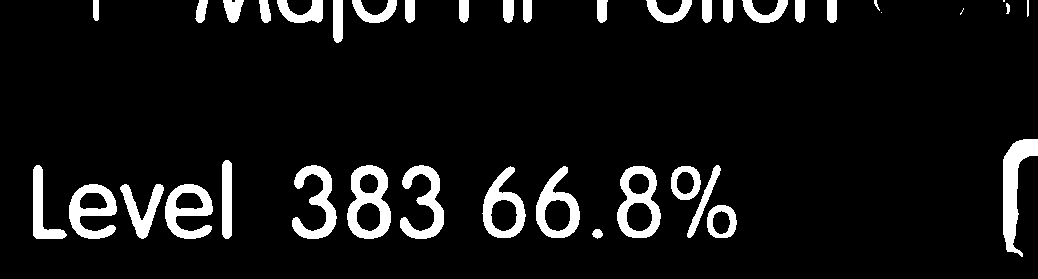
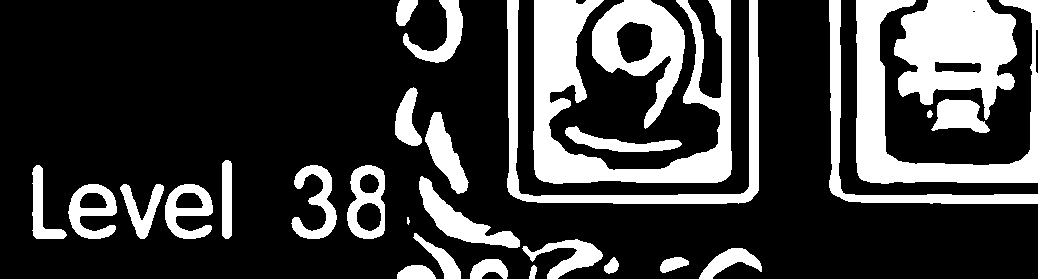
hide adb console windows on Windows

Changed region(s): [[0.185, 0.0, 1.0, 1.0]]

diff --git a/core/subprocess_utils.py b/core/subprocess_utils.py
@@ -1,0 +1,18 @@
+import os
+import subprocess
+
+
+def hidden_console_kwargs():
+    """Hide console window for subprocess on Windows."""
+    if os.name == "nt":
+        startupinfo = subprocess.STARTUPINFO()
+        startupinfo.dwFlags |= subprocess.STARTF_USESHOWWINDOW
+        return {
+            "startupinfo": startupinfo,
+            "creationflags": subprocess.CREATE_NO_WINDOW,
+        }
+
+    return {
+        "startupinfo": None,
+        "creationflags": 0,
+    }

diff --git a/core/adb.py b/core/adb.py
@@ -2,6 +2,7 @@ import subprocess
 from pathlib import Path
 
 from core.logger import log
+from core.subprocess_utils import hidden_console_kwargs
 
 
 DEVICE_ID = None
@@ -30,11 +31,14 @@ def run_adb(args, capture_output=True):
         raise RuntimeError("[ADB] No device selected")
 
     command = ["adb", "-s", DEVICE_ID] + args
+    console = hidden_console_kwargs()
 
     result = subprocess.run(
         command,
         capture_output=capture_output,
-        text=False
+        text=False,
+        startupinfo=console["startupinfo"],
+        creationflags=console["creationflags"],
     )
 
     if result.returncode != 0:

diff --git a/core/device_manager.py b/core/device_manager.py
@@ -1,17 +1,21 @@
 import subprocess
 
 from core.logger import log
+from core.subprocess_utils import hidden_console_kwargs
 
 _adb_server_ready = False
 
 
 def _run_adb(args, *, check=False, binary=False):
+    console = hidden_console_kwargs()
     try:
         return subprocess.run(
             ["adb", *args],
             capture_output=True,
             text=not binary,
             check=check,
+            startupinfo=console["startupinfo"],
+            creationflags=console["creationflags"],
         )
     except OSError:
         return None